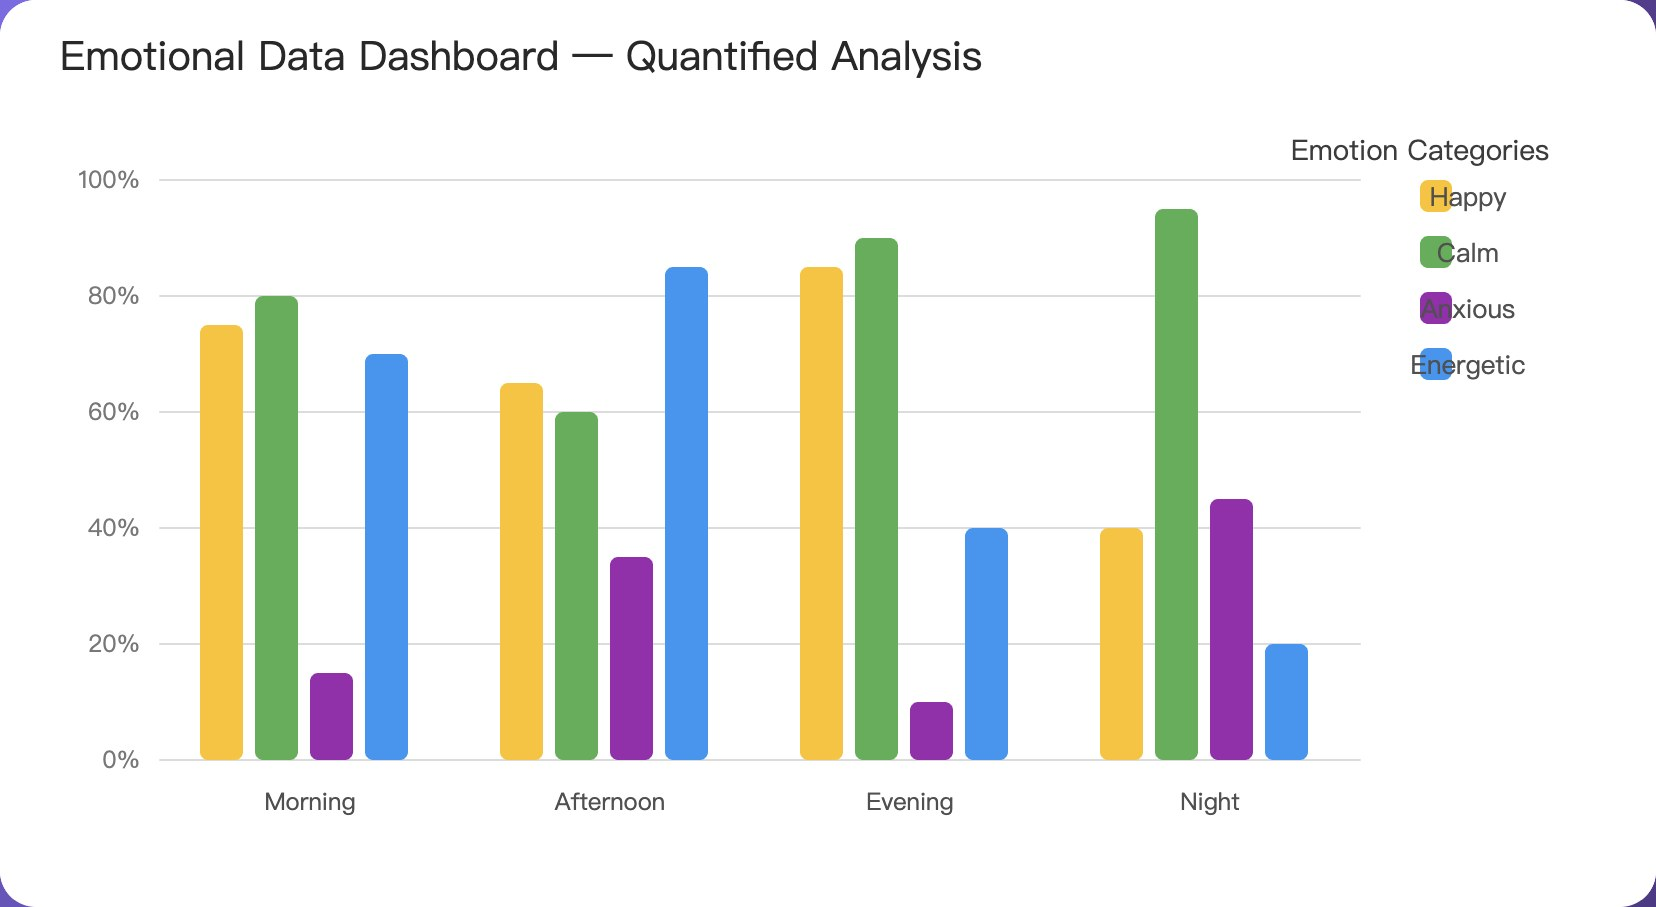
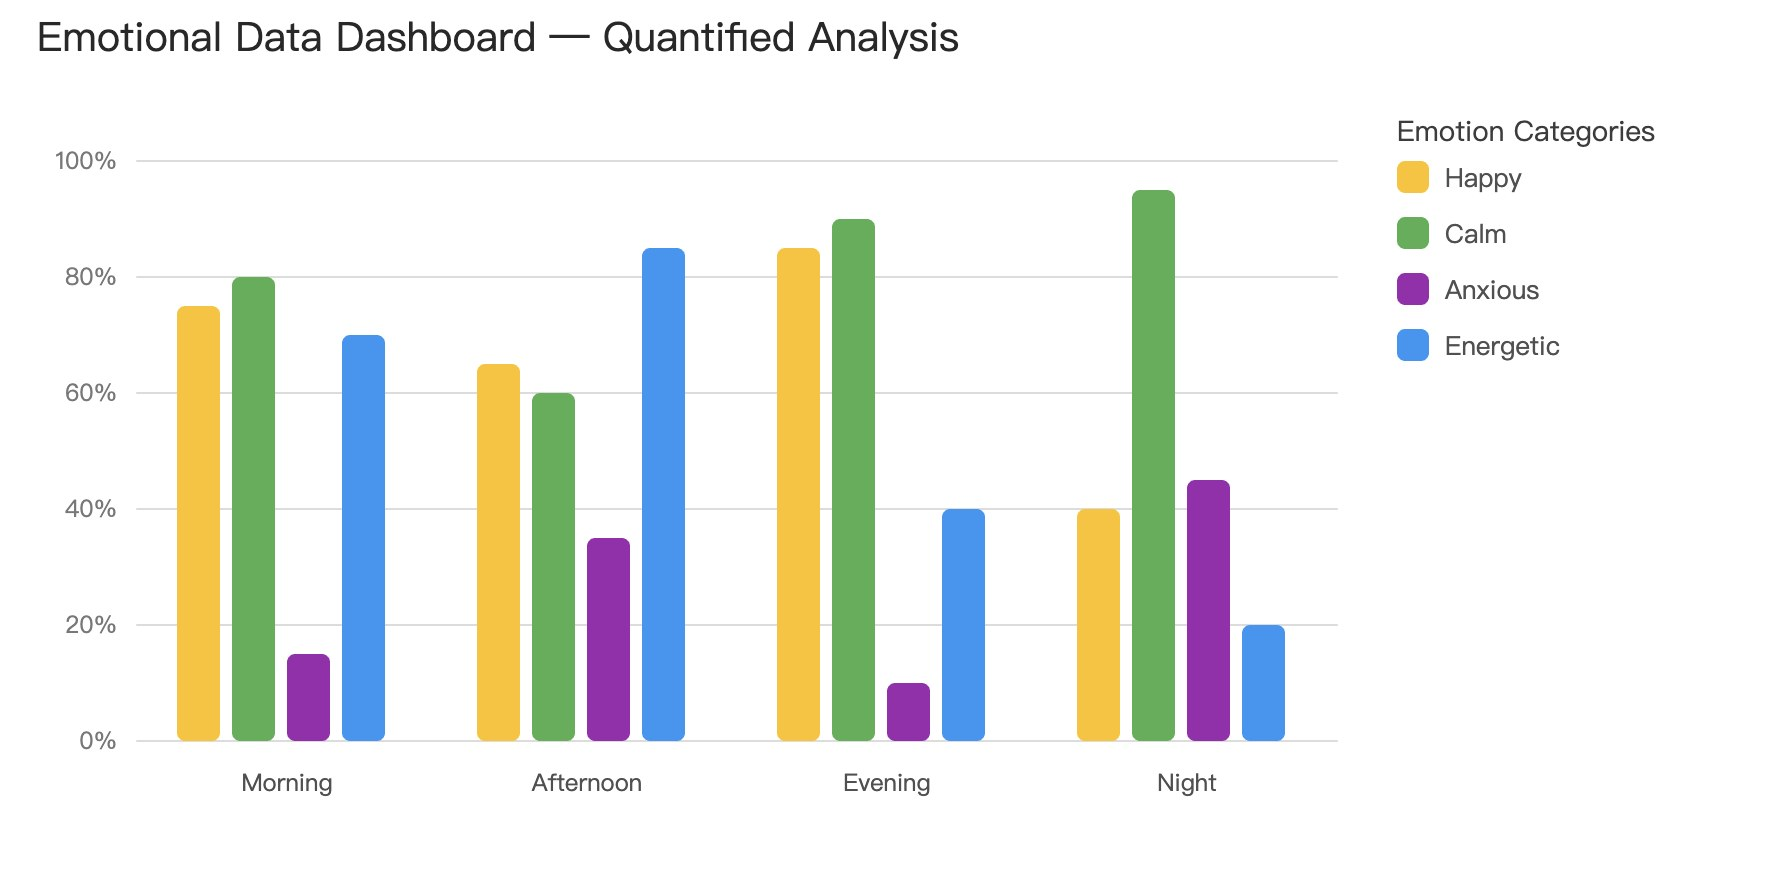
Uniform project thumbnails and row heights; corrected dashboard screenshot
Claude-Session: https://claude.ai/code/session_01EQhCxgsLY47FbpbwvzL33u

diff --git a/assets/css/style.css b/assets/css/style.css
@@ -333,3 +333,16 @@ ul.refs li { padding-left: 1.5em; text-indent: -1.5em; margin-bottom: 0.6em; }
   .row a { grid-template-columns: minmax(0, 1fr); }
   .row .th { max-width: 100%; }
 }
+
+/* Uniform project rows: every thumbnail the same size, every row the same height */
+.row a { grid-template-columns: 240px minmax(0, 1.3fr) minmax(0, 1fr); min-height: calc(180px + 2rem); align-items: center; }
+.row .th { width: 240px; height: 180px; aspect-ratio: auto; }
+.row .t { font-size: clamp(1.7rem, 3.2vw, 2.9rem); }
+@media (max-width: 1100px) {
+  .row a { grid-template-columns: 200px minmax(0, 1fr) minmax(0, 1fr); min-height: calc(150px + 2rem); }
+  .row .th { width: 200px; height: 150px; }
+}
+@media (max-width: 860px) {
+  .row a { grid-template-columns: minmax(0, 1fr); min-height: 0; }
+  .row .th { width: 100%; height: auto; aspect-ratio: 4 / 3; }
+}
